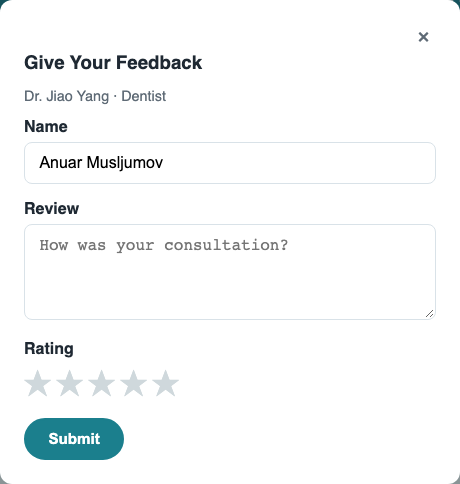
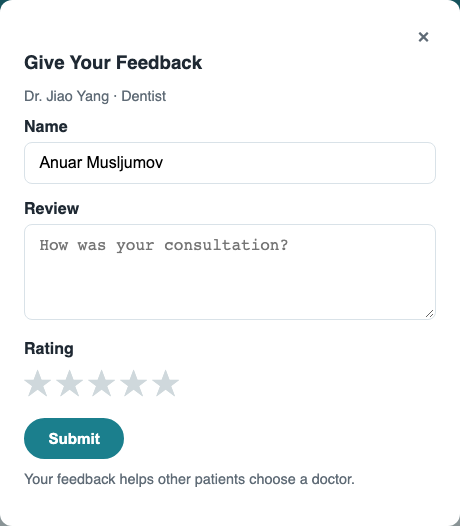
Rename project to med_appt: build into server/build, route-based doctor search, reviewData state, SEO title tag

diff --git a/index.html b/index.html
@@ -5,29 +5,30 @@
     <meta name="viewport" content="width=device-width, initial-scale=1.0" />
 
     <!-- SEO meta tags -->
-    <title>StayHealthy - Online Doctor Consultation &amp; Appointment Booking</title>
+    <title>StayHealthy - Medical Appointment Booking &amp; Online Doctor Consultation</title>
+    <meta name="title" content="StayHealthy - Medical Appointment Booking & Online Doctor Consultation" />
     <meta name="description" content="StayHealthy is a non-profit healthcare platform that connects patients in remote and underserved areas with doctors anytime, anywhere. Book appointments, get instant consultations, read health tips and review your reports online." />
     <meta name="keywords" content="StayHealthy, healthcare, telemedicine, online doctor consultation, book doctor appointment, instant consultation, health tips, medical reports, non-profit" />
     <meta name="author" content="Anuar Musljumov" />
     <meta name="robots" content="index, follow" />
-    <link rel="canonical" href="https://teslamode1x.github.io/stayhealthy/" />
+    <link rel="canonical" href="https://teslamode1x.github.io/med_appt/" />
 
     <!-- Open Graph (Facebook, LinkedIn) -->
     <meta property="og:type" content="website" />
     <meta property="og:site_name" content="StayHealthy" />
     <meta property="og:title" content="StayHealthy - Your Health, Our Responsibility" />
     <meta property="og:description" content="Connect with doctors anytime and from anywhere. Instant consultations, appointment booking, health tips and medical reports in one place." />
-    <meta property="og:url" content="https://teslamode1x.github.io/stayhealthy/" />
-    <meta property="og:image" content="https://teslamode1x.github.io/stayhealthy/og-image.png" />
+    <meta property="og:url" content="https://teslamode1x.github.io/med_appt/" />
+    <meta property="og:image" content="https://teslamode1x.github.io/med_appt/og-image.png" />
 
     <!-- Twitter card -->
     <meta name="twitter:card" content="summary_large_image" />
     <meta name="twitter:title" content="StayHealthy - Your Health, Our Responsibility" />
     <meta name="twitter:description" content="Non-profit healthcare platform: instant consultations, appointment booking, health tips and reports." />
-    <meta name="twitter:image" content="https://teslamode1x.github.io/stayhealthy/og-image.png" />
+    <meta name="twitter:image" content="https://teslamode1x.github.io/med_appt/og-image.png" />
 
     <meta name="theme-color" content="#1b7f8d" />
-    <link rel="icon" type="image/svg+xml" href="/stayhealthy/favicon.svg" />
+    <link rel="icon" type="image/svg+xml" href="/med_appt/favicon.svg" />
   </head>
   <body>
     <div id="root"></div>

diff --git a/src/Components/ReviewForm/GiveReviews.jsx b/src/Components/ReviewForm/GiveReviews.jsx
@@ -8,7 +8,10 @@ function GiveReviews({ doctor, onSubmitted }) {
   const [review, setReview] = useState('');
   const [rating, setRating] = useState(0);
   const [errors, setErrors] = useState({});
-  const [submitted, setSubmitted] = useState(false);
+  // reviewData stays null until the form is submitted; once set, the form is
+  // disabled and the saved review is rendered instead of the empty state.
+  const [reviewData, setReviewData] = useState(null);
+  const submitted = reviewData !== null;
 
   const validate = () => {
     const next = {};
@@ -22,8 +25,10 @@ function GiveReviews({ doctor, onSubmitted }) {
   const handleSubmit = (e) => {
     e.preventDefault();
     if (submitted || !validate()) return;
-    setSubmitted(true);
-    onSubmitted({ doctorId: doctor.id, name: name.trim(), review: review.trim(), rating });
+    // Save the submitted review in state and hand it to the parent list.
+    const data = { doctorId: doctor.id, name: name.trim(), review: review.trim(), rating };
+    setReviewData(data);
+    onSubmitted(data);
   };
 
   return (
@@ -61,7 +66,13 @@ function GiveReviews({ doctor, onSubmitted }) {
       <button type="submit" className="btn" disabled={submitted}>
         {submitted ? 'Review Submitted' : 'Submit'}
       </button>
-      {submitted && <div className="success-text">Thank you! Your feedback has been recorded.</div>}
+      {reviewData ? (
+        <div className="success-text">
+          Thank you, {reviewData.name}! Your {reviewData.rating}-star review has been recorded.
+        </div>
+      ) : (
+        <p className="helper-text" style={{ marginTop: '0.75rem' }}>Your feedback helps other patients choose a doctor.</p>
+      )}
     </form>
   );
 }

diff --git a/server/index.js b/server/index.js
@@ -7,6 +7,7 @@
  *   PUT  /api/auth/user      headers as above, body { name, phone }  -> updated user
  *
  * Users are stored in server/data/users.json so the API runs without a database.
+ * When server/build exists (npm run build), the React app is served from it too.
  */
 import express from 'express';
 import cors from 'cors';
@@ -19,6 +20,7 @@ import { fileURLToPath } from 'node:url';
 const __dirname = dirname(fileURLToPath(import.meta.url));
 const DATA_DIR = join(__dirname, 'data');
 const DATA_FILE = join(DATA_DIR, 'users.json');
+const BUILD_DIR = join(__dirname, 'build');
 const PORT = process.env.PORT || 8181;
 const JWT_SECRET = process.env.JWT_SECRET || 'stayhealthy-dev-secret';
 
@@ -70,7 +72,7 @@ function authenticate(req, res, next) {
 }
 
 /* ---------- routes ---------- */
-app.get('/', (_req, res) => res.json({ status: 'ok', service: 'StayHealthy API' }));
+app.get('/api', (_req, res) => res.json({ status: 'ok', service: 'StayHealthy API' }));
 
 app.post('/api/auth/register', async (req, res) => {
   const { name = '', email = '', password = '', phone = '', role = 'Patient' } = req.body || {};
@@ -142,6 +144,13 @@ app.put('/api/auth/user', authenticate, (req, res) => {
   saveUsers(users);
   res.json(publicUser(user));
 });
+
+/* ---------- static front-end (production build) ---------- */
+if (existsSync(BUILD_DIR)) {
+  app.use('/med_appt', express.static(BUILD_DIR));
+  app.get('/med_appt/*', (_req, res) => res.sendFile(join(BUILD_DIR, 'index.html')));
+  app.get('/', (_req, res) => res.redirect('/med_appt/'));
+}
 
 app.listen(PORT, () => {
   console.log(`StayHealthy API listening on http://localhost:${PORT}`);

diff --git a/src/Components/BookingConsultation/FindDoctorSearch.jsx b/src/Components/BookingConsultation/FindDoctorSearch.jsx
@@ -1,10 +1,13 @@
 import { useState } from 'react';
+import { useNavigate } from 'react-router-dom';
 import { specialities } from '../../data/doctors';
 
 // Search box with a suggestions dropdown. Typing filters the list of
-// specialities; picking one (or submitting the form) reports it to the parent
-// Booking Consultation screen, which then lists the matching doctors.
-function FindDoctorSearch({ onSearch, placeholder = 'Search doctors, clinics, hospitals, etc.' }) {
+// specialities; picking one (or submitting the form) navigates to the search
+// results route (e.g. /booking-consultation?speciality=Dentist), where the
+// Booking Consultation screen reads the query string and lists matching doctors.
+function FindDoctorSearch({ resultsPath = '/booking-consultation', placeholder = 'Search doctors, clinics, hospitals, etc.' }) {
+  const navigate = useNavigate();
   const [query, setQuery] = useState('');
   const [open, setOpen] = useState(false);
 
@@ -12,16 +15,19 @@ function FindDoctorSearch({ onSearch, placeholder = 'Search doctors, clinics, ho
     s.toLowerCase().includes(query.trim().toLowerCase())
   );
 
+  const goToResults = (speciality) => {
+    setOpen(false);
+    navigate(`${resultsPath}?speciality=${encodeURIComponent(speciality)}`);
+  };
+
   const choose = (speciality) => {
     setQuery(speciality);
-    setOpen(false);
-    onSearch(speciality);
+    goToResults(speciality);
   };
 
   const handleSubmit = (e) => {
     e.preventDefault();
-    setOpen(false);
-    onSearch(query.trim());
+    goToResults(query.trim());
   };
 
   return (

diff --git a/src/Components/InstantConsultationBooking/InstantConsultation.jsx b/src/Components/InstantConsultationBooking/InstantConsultation.jsx
@@ -1,4 +1,3 @@
-import { useState } from 'react';
 import { useSearchParams } from 'react-router-dom';
 import FindDoctorSearchIC from './FindDoctorSearchIC';
 import DoctorCardIC from './DoctorCardIC';
@@ -7,14 +6,11 @@ import '../BookingConsultation/Consultation.css';
 
 // "Instant Consultation" screen: search by speciality and consult right away.
 function InstantConsultation() {
-  const [searchParams, setSearchParams] = useSearchParams();
-  const [searched, setSearched] = useState(Boolean(searchParams.get('speciality')));
+  // FindDoctorSearch navigates to ?speciality=<value>; the list below is
+  // derived from that query string, so results survive reloads and sharing.
+  const [searchParams] = useSearchParams();
+  const searched = searchParams.has('speciality');
   const speciality = searchParams.get('speciality') || '';
-
-  const handleSearch = (value) => {
-    setSearched(true);
-    setSearchParams(value ? { speciality: value } : {});
-  };
 
   const results = speciality
     ? doctors.filter((d) => d.speciality.toLowerCase().includes(speciality.toLowerCase()))
@@ -22,7 +18,7 @@ function InstantConsultation() {
 
   return (
     <div className="container consult">
-      <FindDoctorSearchIC onSearch={handleSearch} />
+      <FindDoctorSearchIC />
       {searched && (
         <>
           <h2 className="page-title" style={{ fontSize: '1.3rem' }}>

diff --git a/src/Components/BookingConsultation/BookingConsultation.jsx b/src/Components/BookingConsultation/BookingConsultation.jsx
@@ -1,4 +1,3 @@
-import { useState } from 'react';
 import { useSearchParams } from 'react-router-dom';
 import FindDoctorSearch from './FindDoctorSearch';
 import DoctorCard from './DoctorCard';
@@ -7,14 +6,11 @@ import './Consultation.css';
 
 // "Book an Appointment" screen: search by speciality, then book a dated slot.
 function BookingConsultation() {
-  const [searchParams, setSearchParams] = useSearchParams();
-  const [searched, setSearched] = useState(Boolean(searchParams.get('speciality')));
+  // FindDoctorSearch navigates to ?speciality=<value>; the list below is
+  // derived from that query string, so results survive reloads and sharing.
+  const [searchParams] = useSearchParams();
+  const searched = searchParams.has('speciality');
   const speciality = searchParams.get('speciality') || '';
-
-  const handleSearch = (value) => {
-    setSearched(true);
-    setSearchParams(value ? { speciality: value } : {});
-  };
 
   const results = speciality
     ? doctors.filter((d) => d.speciality.toLowerCase().includes(speciality.toLowerCase()))
@@ -22,7 +18,7 @@ function BookingConsultation() {
 
   return (
     <div className="container consult">
-      <FindDoctorSearch onSearch={handleSearch} />
+      <FindDoctorSearch />
       {searched && (
         <>
           <h2 className="page-title" style={{ fontSize: '1.3rem' }}>

diff --git a/vite.config.js b/vite.config.js
@@ -8,16 +8,18 @@ const spaRoutesOverRootFiles = () => ({
   name: 'spa-routes-over-root-files',
   configureServer(server) {
     server.middlewares.use((req, _res, next) => {
-      if (/^\/stayhealthy\/(login|register|build)\/?$/.test(req.url)) {
-        req.url = '/stayhealthy/';
+      if (/^\/med_appt\/(login|register|build)\/?$/.test(req.url)) {
+        req.url = '/med_appt/';
       }
       next();
     });
   },
 });
 
-// `base` must match the GitHub Pages sub-path: https://<user>.github.io/stayhealthy/
+// `base` must match the GitHub Pages sub-path: https://<user>.github.io/med_appt/
+// The production build goes to server/build so the Express server can serve it.
 export default defineConfig({
   plugins: [react(), spaRoutesOverRootFiles()],
-  base: '/stayhealthy/',
+  base: '/med_appt/',
+  build: { outDir: 'server/build', emptyOutDir: true },
 });

diff --git a/src/Components/InstantConsultationBooking/FindDoctorSearchIC.jsx b/src/Components/InstantConsultationBooking/FindDoctorSearchIC.jsx
@@ -1,9 +1,14 @@
 import FindDoctorSearch from '../BookingConsultation/FindDoctorSearch';
 
-// The instant-consultation search reuses the same search box; only the
-// placeholder differs. Kept as its own file so the flow is self-contained.
-function FindDoctorSearchIC({ onSearch }) {
-  return <FindDoctorSearch onSearch={onSearch} placeholder="Search by speciality for an instant consultation" />;
+// The instant-consultation search reuses the same search box, but navigates
+// to the instant-consultation results route instead of the booking one.
+function FindDoctorSearchIC() {
+  return (
+    <FindDoctorSearch
+      resultsPath="/instant-consultation"
+      placeholder="Search by speciality for an instant consultation"
+    />
+  );
 }
 
 export default FindDoctorSearchIC;

diff --git a/src/App.jsx b/src/App.jsx
@@ -12,7 +12,7 @@ import ReportsLayout from './Components/ReportsLayout/ReportsLayout';
 import HealthBlog from './Components/HealthBlog';
 import NotFound from './Components/NotFound';
 
-// Vite injects the Pages sub-path ("/stayhealthy/") at build time.
+// Vite injects the Pages sub-path ("/med_appt/") at build time.
 const basename = import.meta.env.BASE_URL.replace(/\/$/, '');
 
 function App() {

diff --git a/README.md b/README.md
@@ -1,11 +1,11 @@
-# StayHealthy
+# Medical Appointment Booking (StayHealthy)
 
-Front-end of **StayHealthy**, a (fictitious) non-profit healthcare platform whose *Go Digital* initiative connects patients in remote and underserved areas with doctors anytime, from anywhere.
+**Project name:** Medical Appointment Booking - front-end of **StayHealthy**, a (fictitious) non-profit healthcare platform whose *Go Digital* initiative connects patients in remote and underserved areas with doctors anytime, from anywhere.
 
 Built for the IBM *Front-End Developer* capstone with **React 18**, **React Router 6** and **Vite**, plus a small **Express** authentication API.
 
-- Live site: https://teslamode1x.github.io/stayhealthy/
-- Repository: https://github.com/TeslaMode1X/stayhealthy
+- Live site: https://teslamode1x.github.io/med_appt/
+- Repository: https://github.com/TeslaMode1X/med_appt
 
 ## Features
 
@@ -27,8 +27,8 @@ Built for the IBM *Front-End Developer* capstone with **React 18**, **React Rout
 Requires Node.js 18 or newer.
 
 ```bash
-git clone https://github.com/TeslaMode1X/stayhealthy.git
-cd stayhealthy
+git clone https://github.com/TeslaMode1X/med_appt.git
+cd med_appt
 npm install            # front-end dependencies
 npm --prefix server install   # API dependencies
 ```
@@ -37,7 +37,7 @@ Run the API and the front-end in two terminals:
 
 ```bash
 npm run server         # StayHealthy API on http://localhost:8181
-npm run dev            # Vite dev server, usually http://localhost:5173/stayhealthy/
+npm run dev            # Vite dev server, usually http://localhost:5173/med_appt/
 ```
 
 The front-end reads the API base URL from `src/config.js` (`VITE_API_URL`, default `http://localhost:8181`).
@@ -46,12 +46,12 @@ Users are stored in `server/data/users.json`, so no database is needed.
 ### Production build and deployment
 
 ```bash
-npm run build          # outputs to dist/ (output saved in the `build` file)
+npm run build          # outputs to server/build/ (output saved in the `build` file)
 npm run preview        # serve the production build locally
 ```
 
-The site is deployed to GitHub Pages from the `gh-pages` branch, which contains the `dist/` folder.
-`vite.config.js` sets `base: '/stayhealthy/'` so assets resolve under the Pages sub-path, and
+The site is deployed to GitHub Pages from the `gh-pages` branch, which contains the `server/build/` folder.
+`vite.config.js` sets `base: '/med_appt/'` so assets resolve under the Pages sub-path, and
 `404.html` is a copy of `index.html` so deep links work with React Router.
 
 ## API
@@ -68,10 +68,11 @@ Sample calls and their output are in the `register` and `login` files.
 ## Project structure
 
 ```
-stayhealthy/
+med_appt/
 ├── index.html                 # entry page with SEO meta tags
 ├── public/patient_report.pdf  # sample patient report served by Reports
-├── server/index.js            # Express authentication API
+├── server/index.js            # Express authentication API (also serves server/build)
+├── server/build/              # production build (npm run build)
 ├── screenshots/               # design and feature screenshots (PNG)
 ├── build                      # terminal output of the production build
 ├── register, login            # cURL commands + output for the auth API
@@ -103,7 +104,7 @@ stayhealthy/
 | Login form design | `screenshots/login_form_design.png`, `src/Components/Login/Login.jsx` |
 | Registration / login API calls | `Sign_Up.jsx`, `Login.jsx` (`fetch` to `API_URL`) |
 | Logout | `Navbar.jsx` (`handleLogout`) |
-| Doctor search | `src/Components/BookingConsultation/FindDoctorSearch.jsx` |
+| Doctor search | `src/Components/BookingConsultation/FindDoctorSearch.jsx` (navigates to `/booking-consultation?speciality=...`) |
 | App-wide notification | `src/App.jsx` wraps routes in `<Notification>` |
 | Instant form (name + phone only) | `src/Components/InstantConsultationBooking/AppointmentFormIC.jsx` |
 | Reviews form + disabling | `src/Components/ReviewForm/GiveReviews.jsx` |
